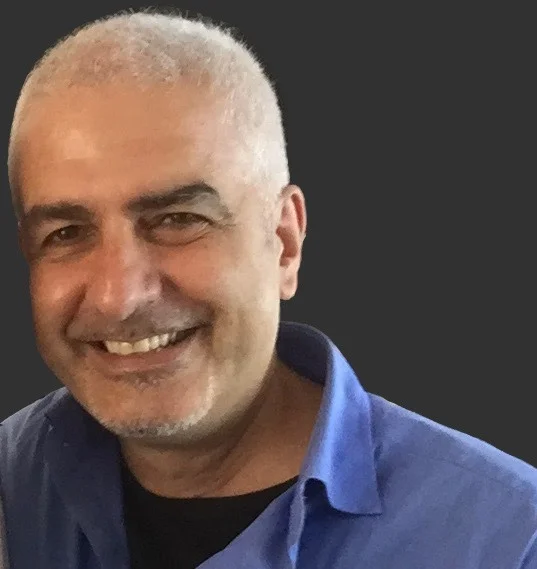
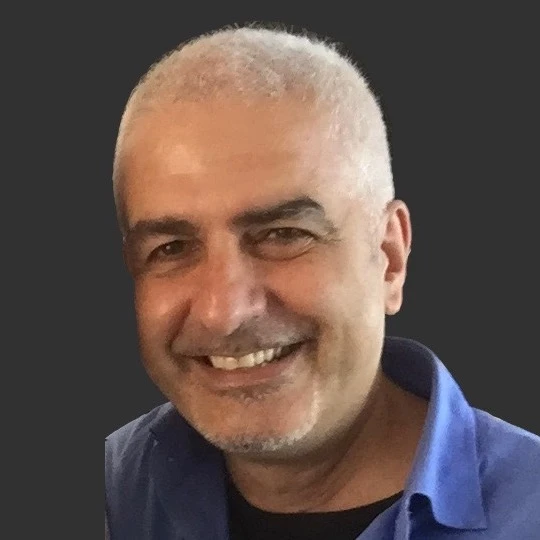
feat: organize keynotes into academic and industrial sections and update Giorgio Tesoniero's profile image

diff --git a/index.html b/index.html
@@ -287,8 +287,13 @@ title: Home
       shaping the future of Smart Worlds.</p>
   </div>
 
-  <div class="row g-4 justify-content-center">
-    <!-- Keynote cards content remains same -->
+  <!-- Academic Keynotes Subsection -->
+  <div class="text-center mb-4">
+    <h3 class="fs-4 fw-bold text-dark mb-1">Academic Keynotes</h3>
+    <p class="text-muted small mb-0">Cutting-edge scientific advances and fundamental research directions</p>
+  </div>
+
+  <div class="row g-4 justify-content-center mb-5 pb-2">
     <div class="col-lg-4 col-md-6">
       <div class="custom-card h-100 p-4 text-center">
         <img src="{{ '/assets/images_26/people/schahram-dustdar.webp' | relative_url }}" alt="Dr. Schahram Dustdar"
@@ -345,6 +350,50 @@ title: Home
 
     <div class="col-lg-4 col-md-6">
       <div class="custom-card h-100 p-4 text-center">
+        <img src="{{ '/assets/images_26/people/vincenzo_piuri.webp' | relative_url }}" alt="Dr. Vincenzo Piuri"
+          class="circle-img mb-4" style="width: 150px; height: 150px; object-fit: cover;" />
+        <h5 class="fw-bold">Dr. Vincenzo Piuri</h5>
+        <p class="text-muted small mb-2">University of Milan, Italy</p>
+        <p class="text-primary fw-bold small mb-3"><i class="bi bi-calendar-event me-2"></i>10 September 2026</p>
+        <h6 class="fw-bold text-primary mb-3">AI in Cloud/Fog/Edge Computing and IoT</h6>
+        <p class="small text-secondary mb-4">
+          Discussing AI role in creating adaptive, autonomous applications for Cloud/Fog/Edge and IoT infrastructures.
+        </p>
+        <div class="mt-auto">
+          <a href="{{ 'keynotes/vincenzo-piuri/' | relative_url }}"
+            class="btn btn-outline-primary rounded-pill w-100">Read Abstract</a>
+        </div>
+      </div>
+    </div>
+
+    <div class="col-lg-4 col-md-6">
+      <div class="custom-card h-100 p-4 text-center">
+        <img src="{{ '/assets/images_26/people/Weisong_Shi_HR.webp' | relative_url }}" alt="Dr. Weisong Shi"
+          class="circle-img mb-4" style="width: 150px; height: 150px; object-fit: cover;" />
+        <h5 class="fw-bold">Dr. Weisong Shi</h5>
+        <p class="text-muted small mb-2">University of Delaware, USA</p>
+        <p class="text-primary fw-bold small mb-3"><i class="bi bi-calendar-event me-2"></i>10 September 2026</p>
+        <h6 class="fw-bold text-primary mb-3">Physical Intelligence on the Edge: A Vision for the Decade Ahead</h6>
+        <p class="small text-secondary mb-4">
+          Exploring the hidden potential and added value of Physical Intelligence on the Edge.
+        </p>
+        <div class="mt-auto">
+          <a href="{{ 'keynotes/weisong-shi/' | relative_url }}" class="btn btn-outline-primary rounded-pill w-100">Read
+            Abstract</a>
+        </div>
+      </div>
+    </div>
+  </div>
+
+  <!-- Industrial Keynotes Subsection -->
+  <div class="text-center mb-4 pt-4 border-top">
+    <h3 class="fs-4 fw-bold text-dark mb-1">Industrial Keynotes</h3>
+    <p class="text-muted small mb-0">Real-world deployment, industry applications, and architectural transformations</p>
+  </div>
+
+  <div class="row g-4 justify-content-center">
+    <div class="col-lg-4 col-md-6">
+      <div class="custom-card h-100 p-4 text-center">
         <img src="{{ '/assets/images_26/people/giuseppe_padula.webp' | relative_url }}" alt="Giuseppe Padula"
           class="circle-img mb-4" style="width: 150px; height: 150px; object-fit: cover;" />
         <h5 class="fw-bold">Giuseppe Padula</h5>
@@ -363,8 +412,8 @@ title: Home
 
     <div class="col-lg-4 col-md-6">
       <div class="custom-card h-100 p-4 text-center">
-        <img src="{{ '/assets/images_26/people/placeholder_avatar.svg' | relative_url }}" alt="Giorgio Tesoniero"
-          class="circle-img mb-4" style="width: 150px; height: 150px; object-fit: cover;" />
+        <img src="{{ '/assets/images_26/people/giorgio_tesoniero.webp' | relative_url }}" alt="Giorgio Tesoniero"
+          class="circle-img mb-4" style="width: 150px; height: 150px; object-fit: cover; object-position: center 20%;" />
         <h5 class="fw-bold">Giorgio Tesoniero</h5>
         <p class="text-muted small mb-2">BIP | IoT & Edge Computing CoE</p>
         <p class="text-primary fw-bold small mb-3"><i class="bi bi-calendar-event me-2"></i>9 September 2026</p>
@@ -378,41 +427,7 @@ title: Home
         </div>
       </div>
     </div>
-
-    <div class="col-lg-4 col-md-6">
-      <div class="custom-card h-100 p-4 text-center">
-        <img src="{{ '/assets/images_26/people/vincenzo_piuri.webp' | relative_url }}" alt="Dr. Vincenzo Piuri"
-          class="circle-img mb-4" style="width: 150px; height: 150px; object-fit: cover;" />
-        <h5 class="fw-bold">Dr. Vincenzo Piuri</h5>
-        <p class="text-muted small mb-2">University of Milan, Italy</p>
-        <p class="text-primary fw-bold small mb-3"><i class="bi bi-calendar-event me-2"></i>10 September 2026</p>
-        <h6 class="fw-bold text-primary mb-3">AI in Cloud/Fog/Edge Computing and IoT</h6>
-        <p class="small text-secondary mb-4">
-          Discussing AI role in creating adaptive, autonomous applications for Cloud/Fog/Edge and IoT infrastructures.
-        </p>
-        <div class="mt-auto">
-          <a href="{{ 'keynotes/vincenzo-piuri/' | relative_url }}"
-            class="btn btn-outline-primary rounded-pill w-100">Read Abstract</a>
-        </div>
-      </div>
-    </div>
-    <div class="col-lg-4 col-md-6">
-      <div class="custom-card h-100 p-4 text-center">
-        <img src="{{ '/assets/images_26/people/Weisong_Shi_HR.webp' | relative_url }}" alt="Dr. Weisong Shi"
-          class="circle-img mb-4" style="width: 150px; height: 150px; object-fit: cover;" />
-        <h5 class="fw-bold">Dr. Weisong Shi</h5>
-        <p class="text-muted small mb-2">University of Delaware, USA</p>
-        <p class="text-primary fw-bold small mb-3"><i class="bi bi-calendar-event me-2"></i>10 September 2026</p>
-        <h6 class="fw-bold text-primary mb-3">Physical Intelligence on the Edge: A Vision for the Decade Ahead</h6>
-        <p class="small text-secondary mb-4">
-          Exploring the hidden potential and added value of Physical Intelligence on the Edge.
-        </p>
-        <div class="mt-auto">
-          <a href="{{ 'keynotes/weisong-shi/' | relative_url }}" class="btn btn-outline-primary rounded-pill w-100">Read
-            Abstract</a>
-        </div>
-      </div>
-    </div>
+  </div>
 
 </section>
 

diff --git a/keynotes/giorgio-tesoniero/index.html b/keynotes/giorgio-tesoniero/index.html
@@ -68,9 +68,9 @@ title: Industrial Keynote - Giorgio Tesoniero
         <div class="row g-4 align-items-center">
             <div class="col-md-4 text-center">
                 <div class="position-relative d-inline-block">
-                    <img src="{{ '/assets/images_26/people/placeholder_avatar.svg' | relative_url }}"
+                    <img src="{{ '/assets/images_26/people/giorgio_tesoniero.webp' | relative_url }}"
                         alt="Giorgio Tesoniero" class="circle-img shadow-lg"
-                        style="width: 180px; height: 180px; border-width: 6px; object-fit: cover;" />
+                        style="width: 180px; height: 180px; border-width: 6px; object-fit: cover; object-position: center 20%;" />
                     <div class="position-absolute bottom-0 start-50 translate-middle-x bg-primary text-white px-2 py-1 rounded-pill shadow"
                         style="width: max-content; font-size: 0.85rem;">
                         Speaker
